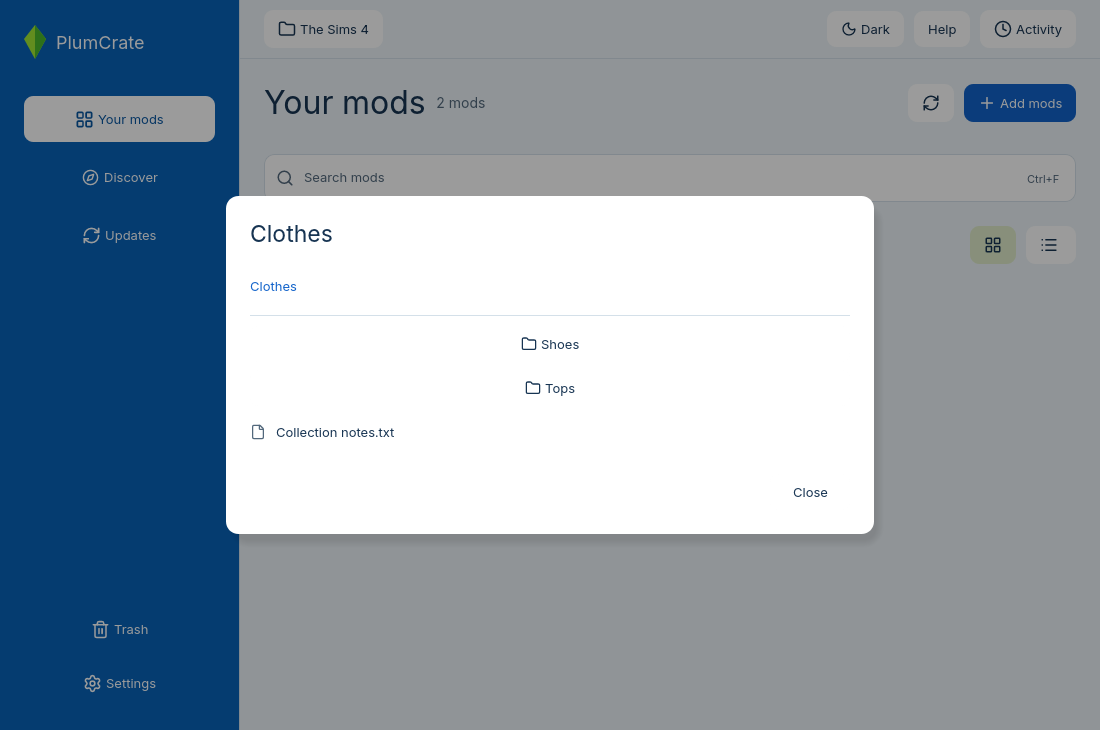
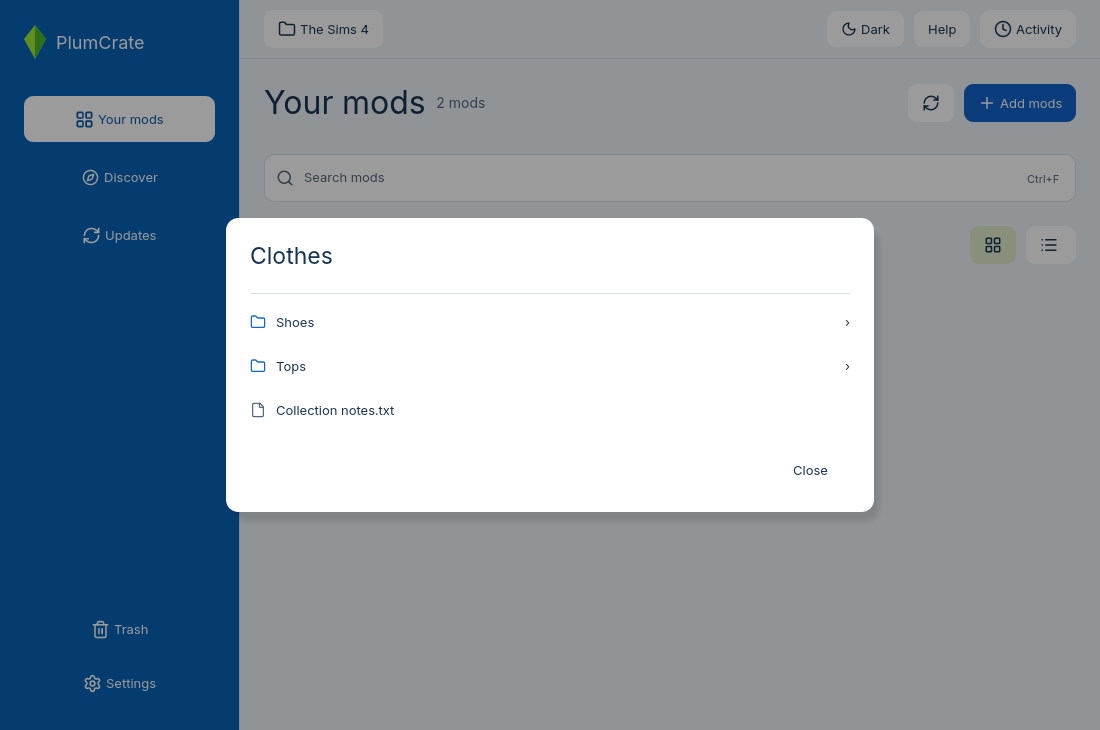
fix: align folders and files in the browser

diff --git a/native/src/ui/folder_browser.rs b/native/src/ui/folder_browser.rs
@@ -69,11 +69,20 @@ impl FolderBrowser {
 
     pub fn show(&mut self, ctx: &Context, title: &str, files: &[String]) -> bool {
         let modal = crate::popup::show_width(ctx, "collection-files", title, 600.0, |ui| {
-            let mut destination = egui::ScrollArea::horizontal()
-                .id_salt("folder-breadcrumbs")
-                .stick_to_right(true)
-                .show(ui, |ui| self.breadcrumbs(ui))
-                .inner;
+            let mut destination = if self.current != self.root {
+                egui::ScrollArea::horizontal()
+                    .id_salt("folder-breadcrumbs")
+                    .stick_to_right(true)
+                    .show(ui, |ui| self.breadcrumbs(ui))
+                    .inner
+            } else {
+                let root = self.root.trim_end_matches('/');
+                let label = if root.is_empty() { "Files" } else { root };
+                if label != title {
+                    ui.label(label);
+                }
+                None
+            };
             ui.separator();
             let row_height = ui.spacing().interact_size.y;
             egui::ScrollArea::vertical()
@@ -87,10 +96,13 @@ impl FolderBrowser {
                     |ui, rows| {
                         for index in rows {
                             if let Some(folder) = self.folders.get(index) {
-                                let button = egui::Button::image_and_text(
-                                    Icon::Folder.image(ui.visuals().text_color(), 16.0),
-                                    folder,
-                                )
+                                let button = egui::Button::new((
+                                    Icon::Folder.image(ui.visuals().hyperlink_color, 16.0),
+                                    folder.as_str(),
+                                ))
+                                .right_text("›")
+                                .frame(false)
+                                .gap(ui.spacing().item_spacing.x)
                                 .truncate();
                                 if ui
                                     .add_sized([ui.available_width(), row_height], button)
@@ -141,7 +153,9 @@ impl FolderBrowser {
                 path.push_str(folder);
                 path.push('/');
                 ui.label("/");
-                if ui.link(folder).clicked() {
+                if path == self.current {
+                    ui.label(folder);
+                } else if ui.link(folder).clicked() {
                     destination = Some(path.clone());
                 }
             }

diff --git a/native/src/ui.rs b/native/src/ui.rs
@@ -1712,6 +1712,11 @@ mod tests {
             let output = frame(vec![]);
             assert!(label(&output, "Shoes").is_some());
             assert!(label(&output, "readme.txt").is_some());
+            let left = |name| output.shapes.iter().find_map(|s| match &s.shape {
+                egui::epaint::Shape::Text(t) if t.galley.text() == name => Some(t.pos.x),
+                _ => None,
+            }).unwrap();
+            assert!((left("Shoes") - left("readme.txt")).abs() <= 1.0, "folder and file names must share a column");
         }
     }
 
